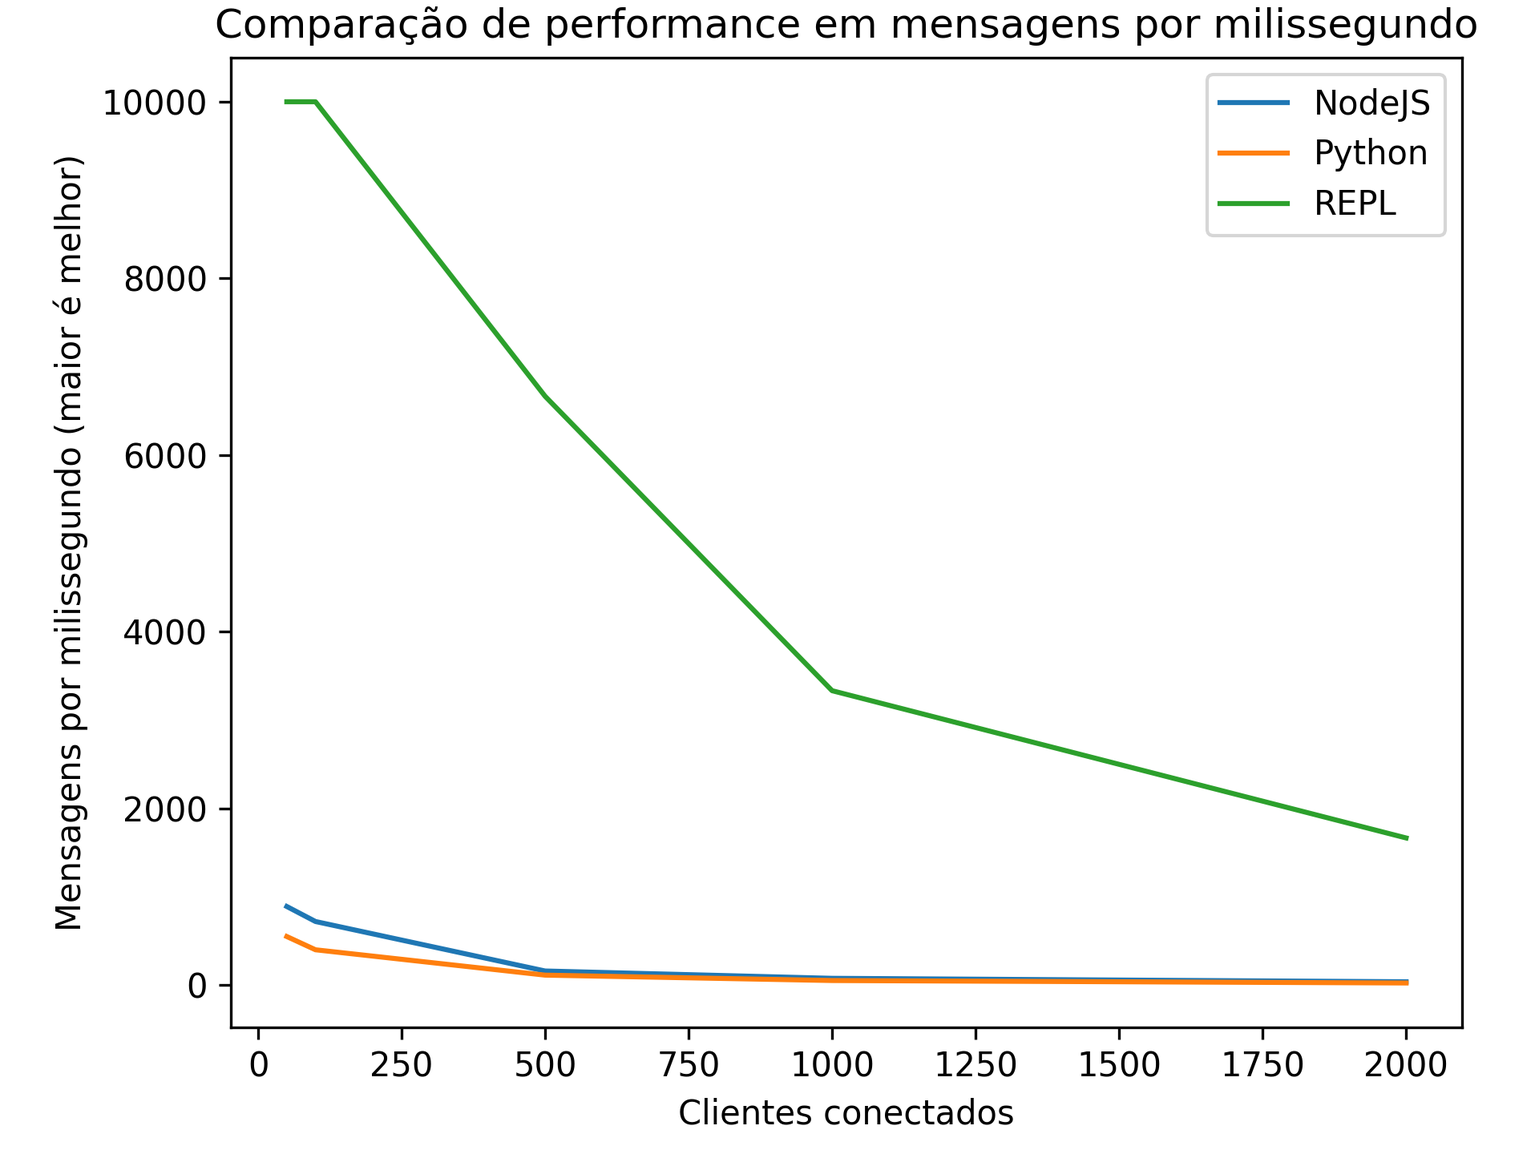
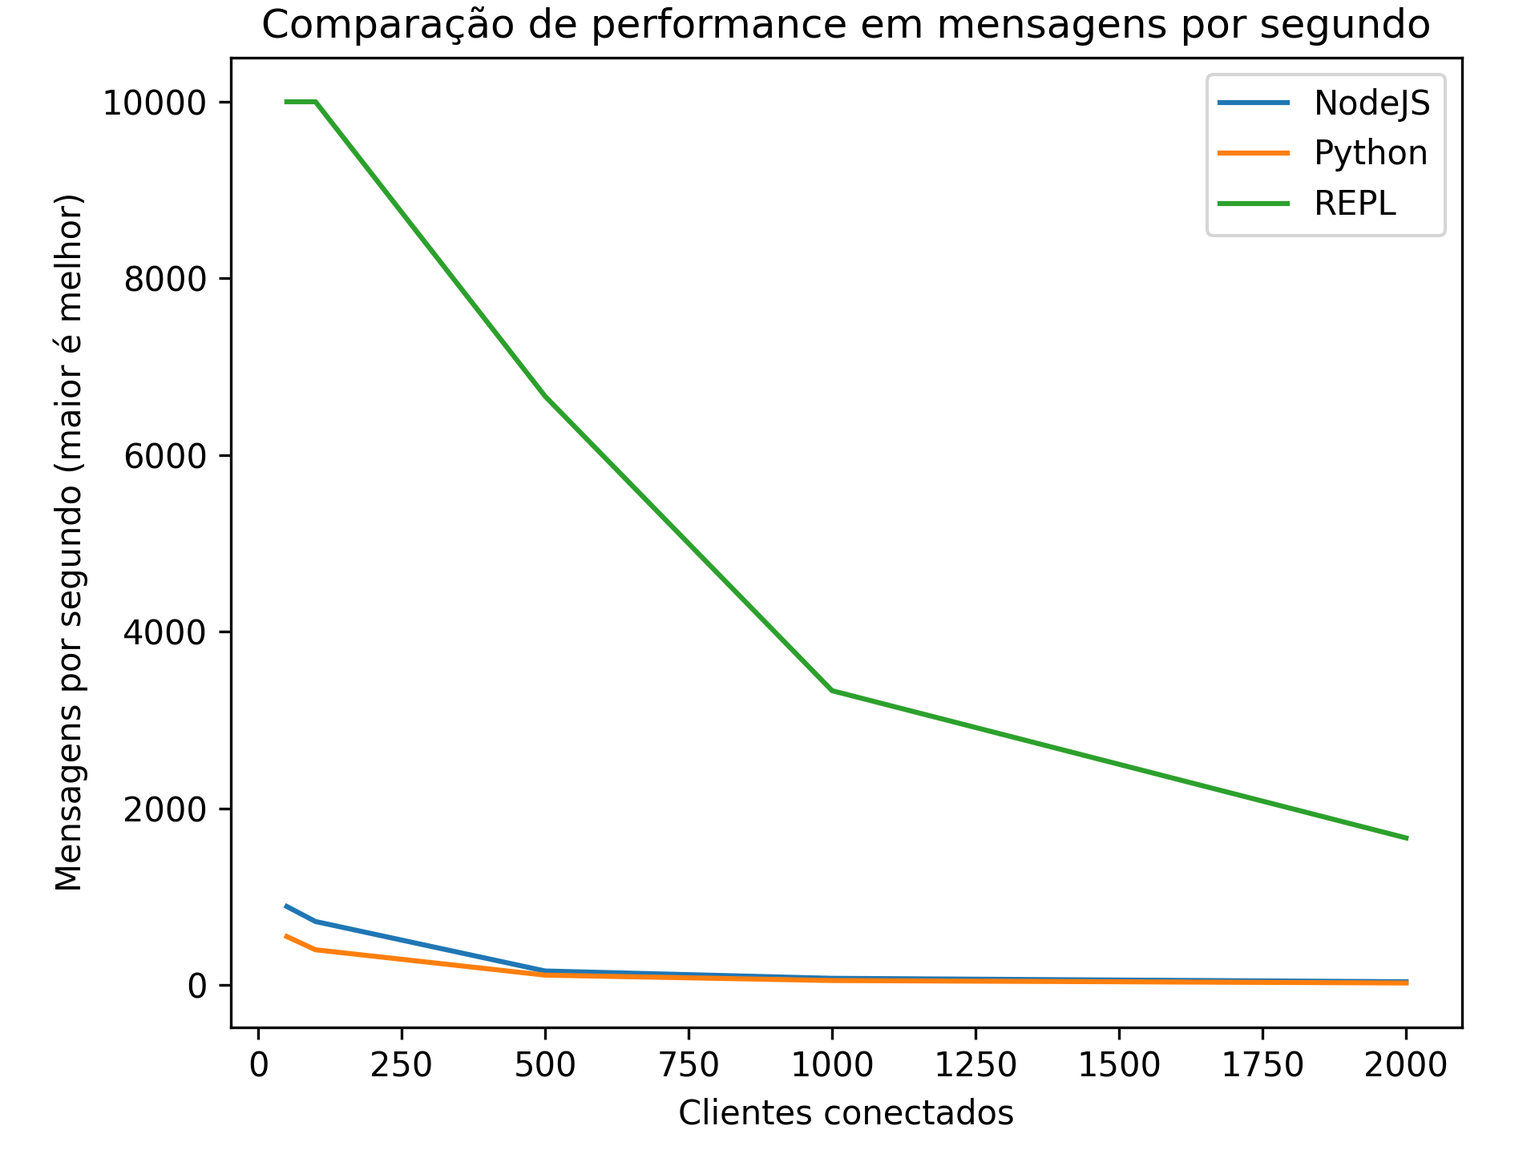
feat: add integration benchmarks and conclusion

Changed region(s): [[0.125, 0.0, 0.9688, 0.0312], [0.0312, 0.125, 0.0625, 0.8125]]

diff --git a/charts.py b/charts.py
@@ -4,76 +4,145 @@ import numpy as np
 clients = [50, 100, 500, 1000, 2000]
 
 
-def plot_request_per_second():
-    node_rps = [9601, 6818, 1475, 765, 386]
-    python_rps = [2044, 1618, 700, 383, 192]
-    repl_rps = [106598, 56927, 9534, 4666, 2514]
+class LoadTest:
+    def rps(self):
+        node_rps = [9601, 6818, 1475, 765, 386]
+        python_rps = [2044, 1618, 700, 383, 192]
+        repl_rps = [106598, 56927, 9534, 4666, 2514]
 
-    plt.plot(clients, node_rps, label="NodeJS")
-    plt.plot(clients, python_rps, label="Python")
-    plt.plot(clients, repl_rps, label="REPL")
+        plt.plot(clients, node_rps, label="NodeJS")
+        plt.plot(clients, python_rps, label="Python")
+        plt.plot(clients, repl_rps, label="REPL")
 
-    plt.xlabel("Clientes conectados")
-    plt.ylabel("Requisições por segundo (maior é melhor)")
+        plt.xlabel("Clientes conectados")
+        plt.ylabel("Requisições por segundo (maior é melhor)")
 
-    plt.title("Comparação de performance em requisições por segundo")
-    plt.legend()
+        plt.title("Comparação de performance em requisições por segundo")
+        plt.legend()
 
-    plt.subplots_adjust(left=0.15, right=0.95, top=0.95)
+        plt.subplots_adjust(left=0.15, right=0.95, top=0.95)
 
-    plt.savefig("charts/rps.png", dpi=300)
+        plt.savefig("charts/rps.png", dpi=300)
+
+    def latency(self):
+        node_latency = [1.1, 1.4, 6.2, 12.9, 25]
+        python_latency = [1.8, 2.5, 8.7, 19.3, 31]
+        repl_latency = [0.1, 0.1, 0.15, 0.3, 0.6]
+
+        plt.plot(clients, node_latency, label="NodeJS")
+        plt.plot(clients, python_latency, label="Python")
+        plt.plot(clients, repl_latency, label="REPL")
+
+        plt.xlabel("Clientes conectados")
+        plt.ylabel("Latência (menor é melhor)")
+
+        plt.title("Comparação de performance em latência")
+        plt.legend()
+
+        plt.subplots_adjust(left=0.15, right=0.95, top=0.95)
+
+        plt.savefig("charts/latency.png", dpi=300)
+
+    def rate(self):
+        node_rate = [890, 720, 160, 77, 38]
+        python_rate = [550, 400, 113, 52, 24]
+        repl_rate = [10_000, 10_000, 6_666, 3_333, 1_666]
+
+        plt.plot(clients, node_rate, label="NodeJS")
+        plt.plot(clients, python_rate, label="Python")
+        plt.plot(clients, repl_rate, label="REPL")
+
+        plt.xlabel("Clientes conectados")
+        plt.ylabel("Mensagens por segundo (maior é melhor)")
+
+        plt.title("Comparação de performance em mensagens por segundo")
+        plt.legend()
+
+        plt.subplots_adjust(left=0.15, right=0.95, top=0.95)
+
+        plt.savefig("charts/rate.png", dpi=300)
+
+    def save_plots(self):
+        self.rps()
+        plt.cla()
+        self.latency()
+        plt.cla()
+        self.rate()
+        plt.cla()
 
 
-def plot_latency():
-    node_latency = [1.1, 1.4, 6.2, 12.9, 25]
-    python_latency = [1.8, 2.5, 8.7, 19.3, 31]
-    repl_latency = [0.1, 0.1, 0.15, 0.3, 0.6]
+class IntegrationTest:
+    def rps(self):
+        clients = [50, 100, 500, 1000]
+        standalone = [984, 557, 136, 67]
+        redis = [3719, 2382, 646, 279]
+        repl = [2379, 2569, 2471, 2143]
 
-    plt.plot(clients, node_latency, label="NodeJS")
-    plt.plot(clients, python_latency, label="Python")
-    plt.plot(clients, repl_latency, label="REPL")
+        plt.plot(clients, standalone, label="Node")
+        plt.plot(clients, redis, label="Node + Redis")
+        plt.plot(clients, repl, label="Node + REPL")
 
-    plt.xlabel("Clientes conectados")
-    plt.ylabel("Latência (menor é melhor)")
+        plt.xlabel("Clientes conectados")
+        plt.ylabel("Requisições por segundo (maior é melhor)")
 
-    plt.title("Comparação de performance em latência")
-    plt.legend()
+        plt.title("Comparação de performance em requisições por segundo")
+        plt.legend()
 
-    plt.subplots_adjust(left=0.15, right=0.95, top=0.95)
+        plt.subplots_adjust(left=0.15, right=0.95, top=0.95)
 
-    plt.savefig("charts/latency.png", dpi=300)
+        plt.savefig("charts/integration_rps.png", dpi=300)
 
+    def latency(self):
+        clients = [50, 100, 500, 1000]
+        standalone = [1, 1.4, 8.2, 17]
+        redis = [0.25, 0.4, 1.5, 3.8]
+        repl = [0.4, 0.4, 0.4, 0.4]
 
-def plot_rate():
-    node_rate = [890, 720, 160, 77, 38]
-    python_rate = [550, 400, 113, 52, 24]
-    repl_rate = [10_000, 10_000, 6_666, 3_333, 1_666]
+        plt.plot(clients, standalone, label="Node")
+        plt.plot(clients, redis, label="Node + Redis")
+        plt.plot(clients, repl, label="Node + REPL")
 
-    plt.plot(clients, node_rate, label="NodeJS")
-    plt.plot(clients, python_rate, label="Python")
-    plt.plot(clients, repl_rate, label="REPL")
+        plt.xlabel("Clientes conectados")
+        plt.ylabel("Latência (menor é melhor)")
 
-    plt.xlabel("Clientes conectados")
-    plt.ylabel("Mensagens por milissegundo (maior é melhor)")
+        plt.title("Comparação de performance em latência")
+        plt.legend()
 
-    plt.title("Comparação de performance em mensagens por milissegundo")
-    plt.legend()
+        plt.subplots_adjust(left=0.15, right=0.95, top=0.95)
 
-    plt.subplots_adjust(left=0.15, right=0.95, top=0.95)
+        plt.savefig("charts/integration_latency.png", dpi=300)
 
-    plt.savefig("charts/rate.png", dpi=300)
+    def rate(self):
+        clients = [50, 100, 500, 1000]
+        standalone = [990, 714, 120, 60]
+        redis = [3900, 2500, 664, 263]
+        repl = [2500, 2500, 2500, 2500]
+
+        plt.plot(clients, standalone, label="Node")
+        plt.plot(clients, redis, label="Node + Redis")
+        plt.plot(clients, repl, label="Node + REPL")
+
+        plt.xlabel("Clientes conectados")
+        plt.ylabel("Mensagens por segundo (maior é melhor)")
+
+        plt.title("Comparação de performance em mensagens por segundo")
+        plt.legend()
+
+        plt.subplots_adjust(left=0.15, right=0.95, top=0.95)
+
+        plt.savefig("charts/integration_rate.png", dpi=300)
+
+    def save_plots(self):
+        self.rps()
+        plt.cla()
+        self.latency()
+        plt.cla()
+        self.rate()
 
 
 if __name__ == "__main__":
-    print("[INFO] Gerando gráfico de requisições por segundo.")
-    plot_request_per_second()
+    load_test = LoadTest()
+    load_test.save_plots()
 
-    plt.cla()
-
-    print("[INFO] Gerando gráfico de latência.")
-    plot_latency()
-
-    plt.cla()
-
-    print("[INFO] Gerando gráfico de mensagens por milissegundo.")
-    plot_rate()
+    integration_test = IntegrationTest()
+    integration_test.save_plots()

diff --git a/README.md b/README.md
@@ -192,33 +192,33 @@ Os testes foram realizados em pequenas baterias, com diferentes quantidades de c
 
 ### 4.1.1 Tabela de performance do NodeJS
 
-| Clientes | Requisições (RP/s) | Latência (1k msg/s) | Taxa (msg/ms) | CPU   | Memória |
-| -------- | ------------------ | ------------------- | ------------- | ----- | ------- |
-| 50       | 9.601              | 1.1s                | 890           | 37.3% | 0.4%    |
-| 100      | 6.818              | 1.4s                | 720           | 70.1% | 0.5%    |
-| 500      | 1.475              | 6.2s                | 160           | 84.9% | 0.5%    |
-| 1000     | 765                | 12.9                | 77            | 87%   | 0.6%    |
-| 2000     | 386                | 25s                 | 38            | 93.3% | 0.7%    |
+| Clientes | Requisições (RP/s) | Latência (1k msg/s) | Taxa (msg/s) | CPU   | Memória |
+| -------- | ------------------ | ------------------- | ------------ | ----- | ------- |
+| 50       | 9.601              | 1.1s                | 890          | 37.3% | 0.4%    |
+| 100      | 6.818              | 1.4s                | 720          | 70.1% | 0.5%    |
+| 500      | 1.475              | 6.2s                | 160          | 84.9% | 0.5%    |
+| 1000     | 765                | 12.9                | 77           | 87%   | 0.6%    |
+| 2000     | 386                | 25s                 | 38           | 93.3% | 0.7%    |
 
 ### 4.1.2 Tabela de performance do Python
 
-| Clientes | Requisições (RP/s) | Latência (1k msg/s) | Taxa (msg/ms) | CPU   | Memória |
-| -------- | ------------------ | ------------------- | ------------- | ----- | ------- |
-| 50       | 2.044              | 1.8s                | 550           | 31.3% | 0.3%    |
-| 100      | 1.618              | 2.5s                | 400           | 55.4% | 0.3%    |
-| 500      | 700                | 8.7s                | 113           | 81.8% | 0.3%    |
-| 1000     | 383                | 19.3s               | 52            | 93.8% | 0.4%    |
-| 2000     | 198                | 41s                 | 24            | 96.9% | 0.6%    |
+| Clientes | Requisições (RP/s) | Latência (1k msg/s) | Taxa (msg/s) | CPU   | Memória |
+| -------- | ------------------ | ------------------- | ------------ | ----- | ------- |
+| 50       | 2.044              | 1.8s                | 550          | 31.3% | 0.3%    |
+| 100      | 1.618              | 2.5s                | 400          | 55.4% | 0.3%    |
+| 500      | 700                | 8.7s                | 113          | 81.8% | 0.3%    |
+| 1000     | 383                | 19.3s               | 52           | 93.8% | 0.4%    |
+| 2000     | 198                | 41s                 | 24           | 96.9% | 0.6%    |
 
 ### 4.1.3 Tabela comparativa de performance do REPL
 
-| Clientes | Requisições (RP/s) | Latência (1k msg/s) | Taxa (msg/ms) | CPU    | Memória |
-| -------- | ------------------ | ------------------- | ------------- | ------ | ------- |
-| 50       | 106.598            | 0.1s                | 10.000        | 144.0% | 3%      |
-| 100      | 56.927             | 0.1s                | 10.000        | 231%   | 1.8%    |
-| 500      | 9.534              | 0.15s               | 6.666         | 356%   | 0.4%    |
-| 1000     | 4.666              | 0.3s                | 3.333         | 300%   | 0.6%    |
-| 2000     | 2.514              | 0.6s                | 1.666         | 268%   | 1.1%    |
+| Clientes | Requisições (RP/s) | Latência (1k msg/s) | Taxa (msg/s) | CPU    | Memória |
+| -------- | ------------------ | ------------------- | ------------ | ------ | ------- |
+| 50       | 106.598            | 0.1s                | 10.000       | 144.0% | 3%      |
+| 100      | 56.927             | 0.1s                | 10.000       | 231%   | 1.8%    |
+| 500      | 9.534              | 0.15s               | 6.666        | 356%   | 0.4%    |
+| 1000     | 4.666              | 0.3s                | 3.333        | 300%   | 0.6%    |
+| 2000     | 2.514              | 0.6s                | 1.666        | 268%   | 1.1%    |
 
 ## 4.1.4 Gráficos de performance
 
@@ -226,72 +226,73 @@ Os testes foram realizados em pequenas baterias, com diferentes quantidades de c
 | ------------------------------------------ | ------------------------------- | ------------------------------------- |
 | ![Requisições por segundo](charts/rps.png) | ![Latência](charts/latency.png) | ![Taxa de mensagens](charts/rate.png) |
 
+## 4.1.5 Análise dos resultados
+
+Os resultados dos testes apresentam uma vantagem da aplicação quando comparado com implementações alternativas em outras linguagens de programação. A questão principal é a performance da aplicação, por ser escrita em uma linguagem compilada, a aplicação desenvolvida em Go se mostrou mais eficiente para o propósito de distribuição de mensagens, lidando com uma maior quantidade de clientes simultâneos e uma maior quantidade de mensagens por segundo.
+
+Um detalhe dos resultados é a quantidade de utilização de recursos da máquina, com o aumento do número de clientes, a aplicação pode se utilizar de uma maior quantidade de processadores e memória RAM. Contrário das outras linguagens da demonstração, o Go permite a utilização de múltiplas threads de processamento, resultando em uma queda de performance menor quando comparado com as outras linguagens.
+
 ## 4.2 Testes de integração
 
 Realizamos também testes de integração da aplicação foram desenvolvidas 3 demonstrações, para exemplificar os modelos arquiteturais descritos e a performance de cada um:
 
-- Aplicação 1: NodeJS monolítica, responsável por gerenciar os tópicos e distribuir as mensagens para os clientes conectados;
-- Aplicação 2: NodeJS utilizando um sistema de mensageria (Redis) para distribuição de mensagens;
-- Aplicação 3: NodeJS utilizando o serviço de mensageria descrito neste trabalho;
+- Node: NodeJS monolítica, responsável por gerenciar os tópicos e distribuir as mensagens para os clientes conectados;
+- Node + Redis: NodeJS utilizando um sistema de mensageria (Redis) para distribuição de mensagens;
+- Node + REPL: NodeJS utilizando o serviço de mensageria descrito neste trabalho em modo stand-alone;
 
-Assim como no teste anterior, cada bateria consiste em um teste de carga com intervalo de 10 segundos para cada aplicação, onde o intuito foi medir a quantidade de requisições por segundo e a utilização de recursos da máquina, com a quantidade de clientes conectados sendo 50, 100, 500 e 1000 respectivamente.
+Nesse teste, o servidor em NodeJS simula uma aplicação real, com logging e escritas para um banco de dados SQLite. Assim como no teste anterior, cada bateria consiste em um teste de carga com intervalo de 10 segundos para cada aplicação, onde o intuito foi medir a quantidade de requisições por segundo, a latência de distribuição de mensagens e a quantidade de mensagens por segundo enviada, com a quantidade de clientes conectados sendo 50, 100, 500 e 1000 respectivamente.
 
-Os resultados do teste de integração são apresentados na tabela abaixo:
+Os resultados do teste de integração são apresentados nas tabelas abaixo:
 
-## 4.2.1 Primeira bateria de testes - 50 conexões
+### 4.2.1 Node standalone
 
-| Aplicação   | Número de conexões | Requisições por segundo | Utilização de CPU | Utilização de memória |
-| ----------- | ------------------ | ----------------------- | ----------------- | --------------------- |
-| Aplicação 1 | 50                 | x                       | x                 | x                     |
-| Aplicação 2 | 50                 | x                       | x                 | x                     |
-| Aplicação 3 | 50                 | x                       | x                 | x                     |
+| Clientes | Requisições | Latência (1k msg/s) | Taxa (msg/s) |
+| -------- | ----------- | ------------------- | ------------ |
+| 50       | 984         | 1s                  | 990          |
+| 100      | 557         | 1.4s                | 714          |
+| 500      | 136         | 8.2s                | 120          |
+| 1000     | 67          | 17s                 | 60           |
 
-## 4.2.2 Segunda bateria de testes - 100 conexões
+### 4.2.2 Node + Redis
 
-| Aplicação   | Número de conexões | Requisições por segundo | Utilização de CPU | Utilização de memória |
-| ----------- | ------------------ | ----------------------- | ----------------- | --------------------- |
-| Aplicação 1 | 100                | x                       | x                 | x                     |
-| Aplicação 2 | 100                | x                       | x                 | x                     |
-| Aplicação 3 | 100                | x                       | x                 | x                     |
+| Clientes | Requisições | Latência (1k msg/s) | Taxa (msg/s) |
+| -------- | ----------- | ------------------- | ------------ |
+| 50       | 3719        | 0.25s               | 3900         |
+| 100      | 2382        | 0.4s                | 2500         |
+| 500      | 646         | 1.5s                | 664          |
+| 1000     | 279         | 3.8s                | 263          |
 
-## 4.2.3 Terceira bateria de testes - 500 conexões
+### 4.2.3 Node + REPL
 
-| Aplicação   | Número de conexões | Requisições por segundo | Utilização de CPU | Utilização de memória |
-| ----------- | ------------------ | ----------------------- | ----------------- | --------------------- |
-| Aplicação 1 | 500                | x                       | x                 | x                     |
-| Aplicação 2 | 500                | x                       | x                 | x                     |
-| Aplicação 3 | 500                | x                       | x                 | x                     |
+| Clientes | Requisições | Latência (1k msg/s) | Taxa (msg/s) |
+| -------- | ----------- | ------------------- | ------------ |
+| 50       | 2379        | 0.4s                | 2500         |
+| 100      | 2569        | 0.4s                | 2500         |
+| 500      | 2471        | 0.4s                | 2500         |
+| 1000     | 2143        | 0.5s                | 1900         |
 
-## 4.2.4 Quarta bateria de testes - 1000 conexões
+### 4.2.4 Gráficos de performance
 
-| Aplicação   | Número de conexões | Requisições por segundo | Utilização de CPU | Utilização de memória |
-| ----------- | ------------------ | ----------------------- | ----------------- | --------------------- |
-| Aplicação 1 | 1000               | x                       | x                 | x                     |
-| Aplicação 2 | 1000               | x                       | x                 | x                     |
-| Aplicação 3 | 1000               | x                       | x                 | x                     |
+| Requisições por segundo                                | Latência                                    | Taxa de mensagens                                 |
+| ------------------------------------------------------ | ------------------------------------------- | ------------------------------------------------- |
+| ![Requisições por segundo](charts/integration_rps.png) | ![Latência](charts/integration_latency.png) | ![Taxa de mensagens](charts/integration_rate.png) |
 
-## Desenvolvimento (Tarefas)
+## 4.2.5 Análise dos resultados
 
-- [x] Finalização do modelo de arquitetura do sistema;
-- [x] Explicação do protocolo SSE e descrição do motivo pelo qual a gente escolheu ele;
-- [x] Explicação a respeito do funcionamento do sistema (divisão de tópicos para clientes conectados);
-- [x] Tabela comparativa dos principais sistemas de mensageria (Kafka, Redis Pub/Sub, e a nossa aplicação);
-- [x] Descrição dos requisitos não funcionais: limitações do sistema;
-  - Limite do tamanho de mensagens
-  - O sistema vai salvar as mensagens?
-  - O sistema vai ter um limite de conexões?
-- [x] Descrição da implementação do sistema
-  - Como o sistema foi implementado
-  - Como funciona a distribuição de mensagens
-  - Como funciona a divisão de tópicos
+Os resultados dos testes de integração apresentam vantagens para diferentes arquiteturas. No caso da aplicação monolítica, nota-se a queda de performance conforme a quantidade de clientes aumenta, mesmo com uma quantidade baixa de clientes nota-se a diferença com relação a alternativa utilizando o Redis. Um ponto que contribuí para essa diferença de performance é a natureza assíncrona de publicação de mensagem no Redis, liberando o servidor para processar outras requisições enquanto a mensagem é eventualmente distribuída para os clientes.
 
-## Tarefas (escrita)
+A arquitetura utilizando um sistema de mensageria como o Redis possui uma eventual limitação: Por conta da distribuição de mensagens ser realizada diretamente pelo servidor Node, a quantidade de clientes conectados é limitada pela capacidade de processamento do servidor. Isso pode ser um problema para aplicações que necessitam de uma grande quantidade de clientes conectados simultaneamente.
 
-- [ ] Resultados, análise e discussão:
-  - [x] Finalização da implementação do sistema;
-  - [x] Aplicações demo para testes de desempenho;
-  - [ ] Dados dos testes de desempenho;
-  - [ ] Análise dos dados dos testes de desempenho;
-  - [ ] Discussão dos resultados (quantitativo): performance do sistema e escalabilidade;
-  - [ ] Discussão dos resultados (qualitativo): facilidade de implementação e manutenção;
-- [ ] Conclusão
+O problema dessa arquitetura é notado quanto comparamos diretamente com a arquitetura utilizando o serviço de mensageria desenvolvido neste trabalho. A distribuição de mensagens é feita por outro servidor, o que permite que o servidor Node se concentre apenas em lidar com as regras de negócio, como salvar as mensagens no banco de dados e realizar outros processamentos. Isso permite que o servidor processe com uma maior quantidade de requisições por não precisar executar a distribuição de mensagens.
+
+Outro detalhe a ser mencionado para o teste de integração é a pequena variação de requisições por segundo, latência e taxa de mensagens com a arquitetura utilizando o NodeJS com o REPL, onde a limitação foi a quantidade de requisições que o servidor em Node consegue enviar para o REPL.
+
+Apesar das vantagens quantitativas da implementação dessa arquitetura, temos também vantagens qualitativas, como a facilidade de implementação e manutenção. A implementação de uma arquitetura distribuída utilizando o REPL é mais simples do que a implementação de uma arquitetura utilizando um sistema de mensageria como o Redis, uma vez que o REPL é responsável por gerenciar a distribuição de mensagens para os clientes conectados, e o servidor Node é responsável apenas por publicar as mensagens para o REPL.
+
+## 5. Conclusão
+
+O objetivo deste trabalho foi apresentar uma aplicação alternativa para elaboração de aplicações web com recursos em tempo real, simplificando a implementação de tais recursos no lado do cliente e do servidor. Além da aplicação, foram apresentados os resultados de testes de desempenho e escalabilidade, comparando a aplicação desenvolvida com modelos de arquitetura padrões para esse tipo de problema.
+
+A aplicação desenvolvida neste trabalho apresenta uma alternativa para aplicações web que necessitam de recursos em tempo real, como notificações e atualizações de estado. A aplicação desenvolvida se mostrou mais eficiente para o propósito de distribuição de mensagens, lidando com uma maior quantidade de clientes simultâneos e uma maior quantidade de mensagens por segundo.
+
+Apesar de não ser completa para utilização em cenários reais, necessitando de estratégias de autenticação e autorização, regras de publicação de mensagens e outras necessidades de segurança, a aplicação apresenta uma estratégia alternativa a alguns dos padrões que resultam ganhos significativos de performance e escalabilidade.
